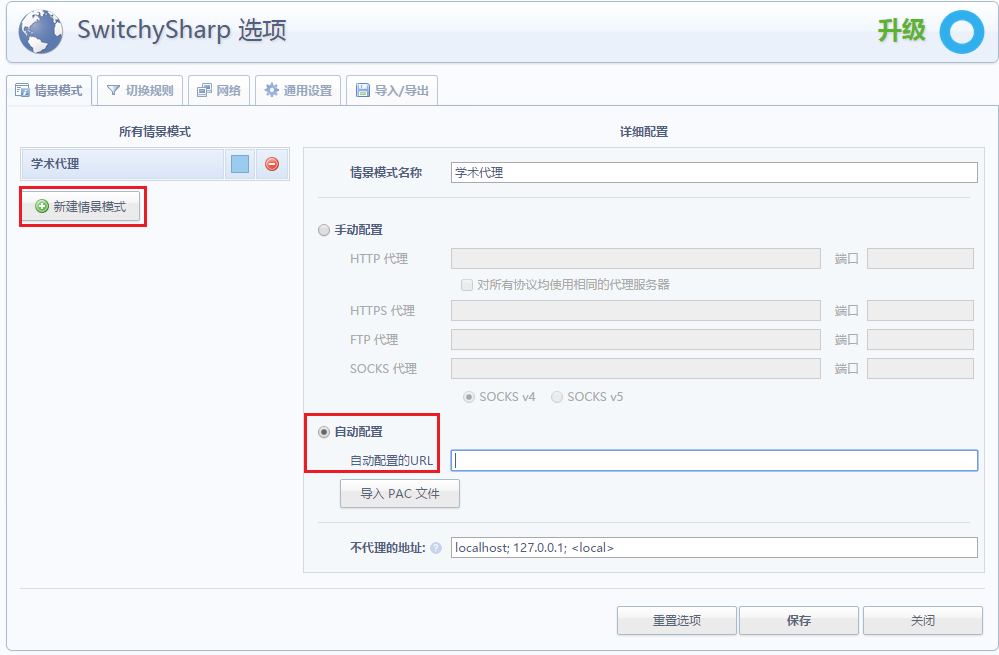
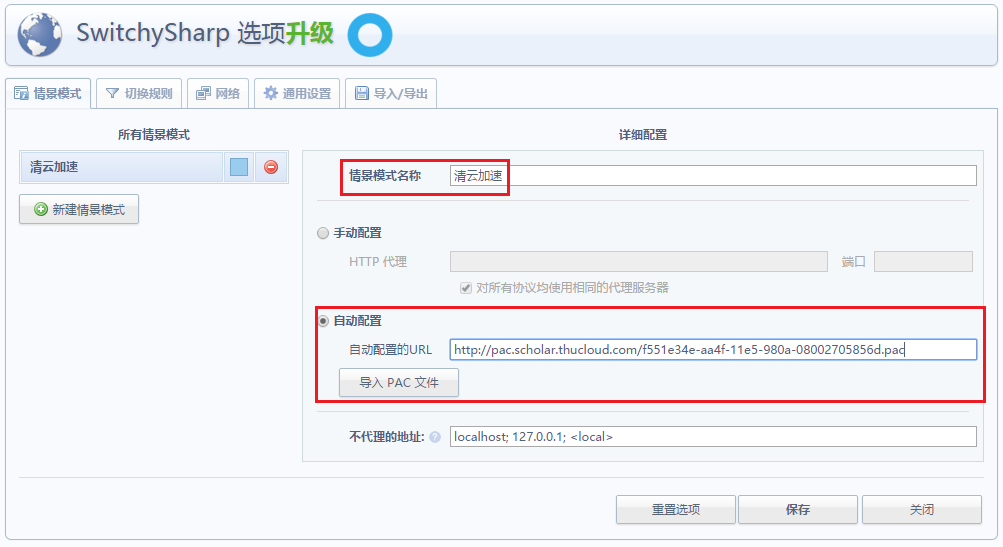
修改配置说明

diff --git a/templates/guide.html b/templates/guide.html
@@ -5,48 +5,91 @@
     <div class="panel-heading" role="tab" id="headingOne">
       <h4 class="panel-title">
         <a role="button" data-toggle="collapse" data-parent="#accordion" href="#collapseOne" aria-expanded="true" aria-controls="collapseOne">
-          Chrome配置
+          Windows-Chrome配置
         </a>
       </h4>
     </div>
     <div id="collapseOne" class="panel-collapse collapse" role="tabpanel" aria-labelledby="headingOne">
       <div class="panel-body">
         <p>
-            1.下载浏览器插件Proxy SwitchySharp <a href="https://chrome.google.com/webstore/detail/proxy-switchysharp/dpplabbmogkhghncfbfdeeokoefdjegm?utm_source=chrome-ntp-icon">下载地址</a>
+            1、下载安装浏览器插件Proxy SwitchySharp <a href="http://www.switchysharp.com/install.html">下载地址</a>
         </p>
-          <img src="/static/imgs/chrome/chrome1.png"  class="img-rounded" width="348">
        <p>
-            2.浏览器地址栏后方出现地球形状图标，说明安装成功。点击选项按钮，进入配置界面
+            2、浏览器地址栏后方出现地球形状图标，说明安装成功。点击“选项”按钮，进入配置界面.
         </p>
-          <img src="/static/imgs/chrome/chrome2.png"  class="img-rounded" width="165">
+          <img src="/static/imgs/chrome/chrome2.png"  class="img-rounded" >
           <p>
-            3.在配置界面新建情景模式，名称为“学术代理”，选择自动配置，在输入框里输自动配置文件的url（购买自动获得），并点击保存
+            3、在配置界面新建情景模式，名称为“清云加速”，选择自动配置，在输入框里输自动配置url（购买获得），并点击保存。
         </p>
-          <img src="/static/imgs/chrome/chrome3.png"  class="img-rounded" width="999">
+          <img src="/static/imgs/chrome/chrome3.png"  class="img-rounded" >
           <p>
-            4.再次点击SwitchySharp的球形图标，选择刚刚配置的“学术代理”情景模式，之后就可以顺畅地访问Google Scholar等网站
+            4、再次点击SwitchySharp的球形图标，选择刚刚配置的“清云加速”情景模式，之后就可以顺畅地使用加速服务。
         </p>
-          <img src="/static/imgs/chrome/chrome4.png"  class="img-rounded" width="166">
+          <img src="/static/imgs/chrome/chrome4.png"  class="img-rounded" >
       </div>
     </div>
   </div>
+
+
+    <div class="panel panel-default">
+    <div class="panel-heading" role="tab" id="headingOne">
+      <h4 class="panel-title">
+        <a role="button" data-toggle="collapse" data-parent="#accordion" href="#collapseThree" aria-expanded="true" aria-controls="collapseThree">
+          Mac配置
+        </a>
+      </h4>
+    </div>
+    <div id="collapseThree" class="panel-collapse collapse" role="tabpanel" aria-labelledby="headingThree">
+      <div class="panel-body">
+        <p>
+            1、点击“系统偏好设置”
+        </p>
+          <img src="/static/imgs/mac/mac1.png"  class="img-rounded" width="200px">
+       <p>
+            2、点击“网络”
+        </p>
+          <img src="/static/imgs/mac/mac2.png"  class="img-rounded" width="600px">
+          <p>
+            3、选中正在使用的Wi-Fi或者以太网，点击“高级”
+        </p>
+          <img src="/static/imgs/mac/mac3.png"  class="img-rounded" width="600px">
+          <p>
+            4、勾选“自动代理配置”，在URL中填入相应URL（购买获得）
+        </p>
+          <img src="/static/imgs/mac/mac4.png"  class="img-rounded" width="600px">
+      </div>
+    </div>
+  </div>
+
+
+
   <div class="panel panel-default">
     <div class="panel-heading" role="tab" id="headingTwo">
       <h4 class="panel-title">
         <a class="collapsed" role="button" data-toggle="collapse" data-parent="#accordion" href="#collapseTwo" aria-expanded="false" aria-controls="collapseTwo">
-          IE配置
+          Windows-IE配置
         </a>
       </h4>
     </div>
     <div id="collapseTwo" class="panel-collapse collapse in" role="tabpanel" aria-labelledby="headingTwo">
       <div class="panel-body">
        <p>
-            IE浏览器 > Internet选项 > 连接 > 局域网设置：
+            1、打开IE浏览器 > Internet选项
         </p>
-          <img src="/static/imgs/IE/ie1.png"  class="img-rounded" width="500">
+          <img src="/static/imgs/IE/IE1.jpg"  class="img-rounded" >
+        <p>
+            2、在连接标签页中点击局域网设置
+        </p>
+          <img src="/static/imgs/IE/IE2.jpg"  class="img-rounded" >
+          <p>
+            3、勾选“使用自动配置脚本”，填入自动配置url（购买获得）
+        </p>
+          <img src="/static/imgs/IE/IE3.jpg"  class="img-rounded" >
       </div>
     </div>
   </div>
+
+
 </div>
 
 {% endblock %}

diff --git a/templates/base.html b/templates/base.html
@@ -61,10 +61,10 @@
 
         <div id="navbar" class="navbar-collapse collapse">
             <ul class="nav navbar-nav navbar-middle" style="width: 47%">
-                <li {% if pageName == "homepage" %}class="active"{% endif %} style="width: 25%"><a href="/homepage">账户管理</a></li>
-{#                <li {% if pageName == "guide" %}class="active"{% endif %} style="#width: 33%"><a href="/guide">配置说明</a></li>#}
-                <li {% if pageName == "accoutTypes" %}class="active"{% endif %} style="width: 25%"><a href="/accoutTypes">商品列表</a></li>
-                <li style="width: 50%"><a target="_blank" href="http://thucloud.com">云计算教学实验平台</a></li>
+                <li {% if pageName == "homepage" %}class="active"{% endif %} style="width: 33%"><a href="/homepage">账户管理</a></li>
+                <li {% if pageName == "guide" %}class="active"{% endif %} style="width: 33%"><a href="/guide">配置说明</a></li>
+                <li {% if pageName == "accoutTypes" %}class="active"{% endif %} style="width: 33%"><a href="/accoutTypes">商品列表</a></li>
+{#                <li style="width: 50%"><a target="_blank" href="http://thucloud.com">云计算教学实验平台</a></li>#}
             </ul>
 
             <ul class="nav navbar-nav navbar-right"  style="width: 18%">

diff --git a/templates/homepage.html b/templates/homepage.html
@@ -11,7 +11,7 @@
             <p align="center">您的账户为：<a href="/accoutTypes/" title="查看资费说明">VIP用户</a></p>
         {% endif %}
         <p align="center">您的{{ proxyaccount.type }}元套餐剩余时间还有{{ proxyaccount.remainTime }} <!-- <a href="/alipay/apply">续费</a></p>-->
-        <p align="center">代理配置URL：<label>http://pac.scholar.thucloud.com/{{ proxyaccount.pac_no }}.pac</label><!--<input type="text" disabled="true " value="http://www.thucloud.com/static/myproxy.pac"> <input type="button" value="点击复制">--></p>
+        <p align="center">自动配置URL：<label>http://pac.scholar.thucloud.com/{{ proxyaccount.pac_no }}.pac</label><!--<input type="text" disabled="true " value="http://www.thucloud.com/static/myproxy.pac"> <input type="button" value="点击复制">--></p>
        <p align="center">详情请查看<a href="/guide">配置说明</a></p>
     {% endif %}
 {% endblock %}

diff --git a/static/css/base.css b/static/css/base.css
@@ -25,6 +25,10 @@ label.error {
   width: auto;
 }
 
+.panel-body > img {
+  margin-bottom: 20px;
+}
+
 /*-------------- navbar-------------*/
 .navbar {
   text-align: center;
